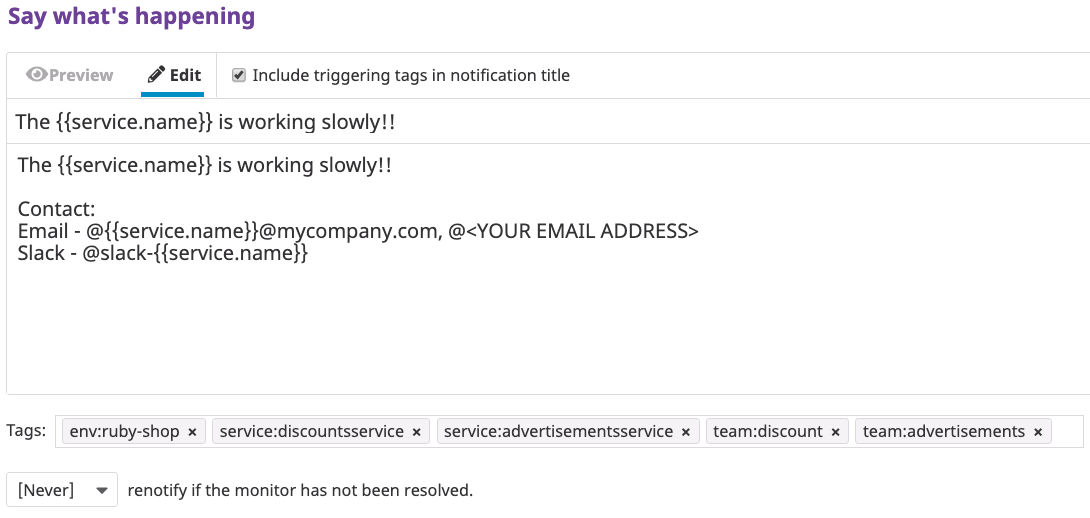
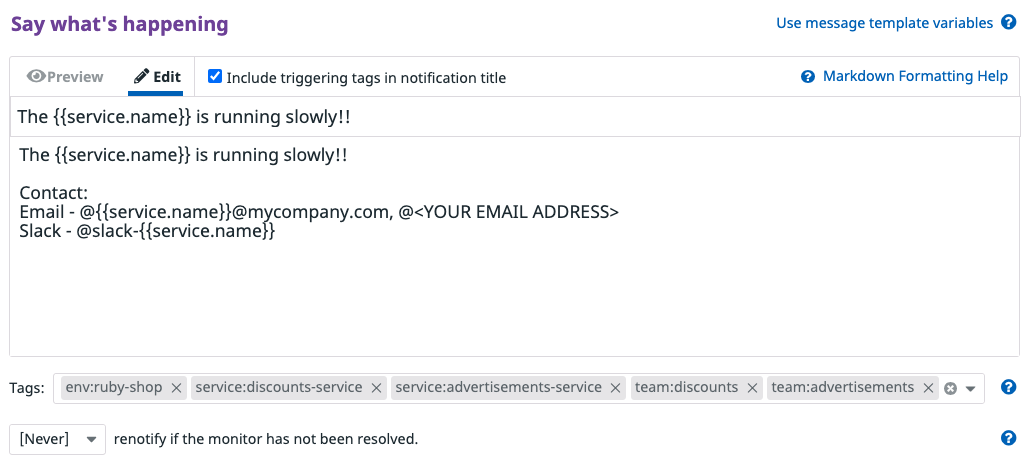
updated steps1-3

diff --git a/taggingv2/apptagging/step3.md b/taggingv2/apptagging/step3.md
@@ -8,30 +8,60 @@ With tags, you can create <a href="https://docs.datadoghq.com/monitors/notificat
 
 4. Expand **Define the metric**. For **Metric**, select  `trace.flask.request.duration`. For **from**, select `env:ruby-shop` to filter by the app environment.
 
-5. Below the metric, select `Multi Alert` from the menu and enter `service` for **(select group)**. <p> You will see that `service` automatically populates the **avg by** (group by) field for the metric. <p>![alert-metric](apptagging/assets/alert-metric.png) 
+5. Below the metric, select `Multi Alert` from the menu and enter `service` for **(select group)**. 
 
-6. Expand **Set the alert condition**. For **Alert Threshold**, enter 5. Leave all other fields as is. <p>![alert-condition](apptagging/assets/alert-condition.png)
+    You will see that `service` automatically populates the **avg by** (group by) field for the metric. 
 
-7. Expand **Say what's happening**. <p> In the **Example Monitor Name...** field, copy and paste `The {{service.name}} is running slowly!!`{{copy}} <p> For **Example Monitor Message...**, copy and paste `The {{service.name}} is running slowly!! Contact: Email - @{{service.name}}@mycompany.com, @<YOUR EMAIL ADDRESS> Slack - @slack-{{service.name}}`{{copy}} <p> At Storedog, the email addresses and slack channels for the advertisements and discounts engineering teams are named for their respective services. If either of the services triggers an alert, `{{service.name}}` will be populated with the appropriate service name. <p> Delete `@<YOUR EMAIL ADDRESS>` and type `@`, then select your name from the list that appears. Do **not** select `Datadog Learning Parent` or `All`. You can also add line breaks so that the message looks similar to that in the image below.<p>For **Tags**, enter `env:ruby-shop`, `service:discounts-service`, `service:advertisements-service`, `team:discount`, `team:advertisements`{{copy}} <p>![alert-message](apptagging/assets/alert-message4.png)
+    ![alert-metric](apptagging/assets/alert-metric.png) 
 
-8. Expand **Notify your team**. The field is already populated with the `@` selections in **Say what's happening**. <p>![alert-notifications](apptagging/assets/alert-notifications.png) <p> Before you save the monitor, let's see an example alert.
+6. Expand **Set the alert condition**. For **Alert Threshold**, enter 5. Leave all other fields as is. 
+
+    ![alert-condition](apptagging/assets/alert-condition.png)
+
+7. Expand **Say what's happening**.
+
+    In the **Example Monitor Name** field, enter `The {{service.name}} is running slowly!!`{{copy}}.
+    
+    In **Example Monitor Message**, enter `The {{service.name}} is running slowly!! Contact: Email - @{{service.name}}@mycompany.com, @<YOUR EMAIL ADDRESS> Slack - @slack-{{service.name}}`{{copy}} 
+    
+    Assume at Storedog, the email addresses and slack channels for the advertisements and discounts engineering teams are named for their respective services. If either of the services triggers an alert, `{{service.name}}` will be populated with the appropriate service name. 
+    
+    Delete `@<YOUR EMAIL ADDRESS>` in the message and type `@`, then select your name from the list that appears. Do **not** select `Datadog Learning Parent` or `All`. You can also add line breaks so that the message looks similar to that in the image below.
+    
+    For **Tags**, enter `env:ruby-shop`{{copy}}, `service:discounts-service`{{copy}}, `service:advertisements-service`{{copy}}, `team:discounts`{{copy}}, `team:advertisements`{{copy}}. 
+
+    NOTE - Make sure include the hyphen in `discounts-service` and `advertisements-service`.
+    
+    ![alert-message](apptagging/assets/alert-message3.png)
+
+8. Expand **Notify your team**. The field is already populated with the `@` selections in **Say what's happening**. 
+
+    ![alert-notifications](apptagging/assets/alert-notifications.png) 
+    
+    Before you save the monitor, let's see an example alert.
 
 9. In the bottom right, click **Test Notifications**. 
 
-10. In the pop-up window that appears, select the **Alert** tile and click **Run Test**. <p> A message appears in the window: `Test notifications sent with group service:<service name>`. <p>![alert-tested](apptagging/assets/alert-tested.png)
+10. In the pop-up window that appears, select the **Alert** tile and click **Run Test**. 
+
+    A message appears in the window: `Test notifications sent with group $service:<service name>`. 
+    
+    ![alert-tested](apptagging/assets/alert-tested2.png)
 
 11. Check your email at the address included in **Notify your team**. You should see an email with the subject `[Monitor Alert] Triggered: [TEST] The <service name> is running slowly!`.
 
-12. Open the email to view its details. You will see that the `{{service.name}}` has been replaced with the actual service name throughout the email. <p>![alert-testemail](apptagging/assets/alert-testemail2.png)
+12. Open the email to view its details. You will see that the `{{service.name}}` has been replaced with the actual service name throughout the email. 
+
+    ![alert-testemail](apptagging/assets/alert-testemail3.png)
 
 13. In Datadog, close the test notifcation window and click **Save** to save the monitor. 
 
 14. Select **Manage Monitors** above the monitor to navigate to the monitors list.
 
-15. To the left of the monitors list, expand the different filter facets. <p> You will see that **Service**, **Tag**, **Env**, and **Team** have optons related to the tags you assigned to the monitor.
+15. On the left of the Monitors list, expand the different Facets. Notice that **Service**, **Tag**, **Env**, and **Team** have optons related to the tags you assigned to the monitor.
 
 14. Navigate to <a href="https://app.datadoghq.com/apm/services" target="_datadog">**APM** > **Services**</a>. Select **discounts-service**.
 
-15. Above the graphs, you will see a banner **1 Monitor ##**. Click the banner to view the list of monitors associated with and suggested for the service.
+15. Above the graphs, you will see a **Monitor** banner. Click the banner to view the list of monitors associated with and suggested for the service. Notice that the monitor you created is listed.
 
 Because of the tags you assigned to the monitor in step 7, the monitor is linked to the respective services in the APM page.

diff --git a/taggingv2/apptagging/step2.md b/taggingv2/apptagging/step2.md
@@ -2,32 +2,46 @@ Based on how the tags have been assigned, you can search the data using the tags
 
 Let's explore the data for the Storedog app.
 
-1. In a new window/tab, log in to the Datadog account/organization that was created for you by learn.datadoghq.com. <p> To open the correct Datadog organization, you can click **Login Now** in the “Congrats” email you received after you joined the account/organization.
+1. In a new browser window/tab, log in to the <a href="https://app.datadoghq.com/account/login" target="_datadog">Datadog account/organization</a> that was created for you by learn.datadoghq.com.
 
-2. If you have previously used the **Log Explorer** in the Datadog organization you are working in, you can move on to the next step. <p>If you are working in a new Datadog organization, you have to first enable Log Management before you can continue. <p> Navigate to <a href="https://app.datadoghq.com/logs" target="_datadog">**Logs**</a>. Click **Get Started**, then click **Start Trial** in the pop-up window. Select **Container**, then select the **docker** tile. Scroll to the bottom and click **Explore your Logs**.
+2. If you have previously used **Logs** in the Datadog organization you are working in, you can move on to the next step. 
 
-2. Navigate to <a href="https://app.datadoghq.com/apm/traces" target="_datadog">**APM** > **Traces**</a> in Datadog to view the list of traces that are coming in. <p> If you are working in a new Datadog organization, the link will be redirected to the **APM** > **Introduction** page. You may need to wait about two minutes as Datadog's Autodiscovery feature picks up the traces that are coming in. In the main menu, when the option appears, click the **APM > Traces** to see the list of traces.
+    If you are working in a new Datadog organization, you have to first enable **Logs** before you can continue. Navigate to <a href="https://app.datadoghq.com/logs" target="_datadog">**Logs**</a>. Click **Get Started**, then click **Get Started** again. You should now be able to see the Log List.
 
-3. In the search field above the list of traces, enter `Env:ruby-shop` if it is not listed to make sure that you are only viewing traces for the Storedog app.
+3. Navigate to <a href="https://app.datadoghq.com/apm/traces" target="_datadog">**APM** > **Traces**</a> in Datadog to view the list of traces that are coming in. 
+    
+    If you are working in a new Datadog organization, the link will be redirected to the **APM** > **Introduction** page. You may need to wait about two minutes as Datadog's Autodiscovery feature recognizes that trace data is coming in. In the main menu, when the option appears, click the **APM > Traces** to see the list of traces.
 
-4. If you see no traces are listed, wait until you see traces listed. You can also refresh the page. 
+3. In the search field above the list of traces, enter the following. 
 
-5. In the search field, enter `service:advertisements-service` to list the traces for the advertisements service only.
+    `env:ruby-shop`{{copy}} to make sure that you are only viewing traces for the Storedog app.
 
-7. Click any trace in the list to view its details. 
+    `service:advertisements-service`{{copy}} to list traces for the advertisements service only.
 
-8. Below the trace flame graph, click the **Logs (#)** tab to view the list of logs associated with this trace. 
+    `resource_name:"GET /ads"`{{copy}} to list traces for this advertisements resource only.
 
-9. Click any of the logs. A new tab will open for the **Log Explorer** and the details for the log you clicked. <p>Notice the tag selected in the search field above the lists of logs is the `trace_id` for the specific trace. The `trace_id` tag is assigned by Datadog. To learn more, view the <a href="https://docs.datadoghq.com/logs/processing/#trace-id-attribute" target="_blank">Log Management Processing</a> documentation. 
+    Note: You can also select these Facets from the list on the left. When you select the facet, you will see the tag appear in the search field.
 
-10. Clear the search field in the Log Explorer. All the logs will appear in the list.
+5. Click any trace in the list to view its details. 
 
-11. In the Log Explorer search field, add `env:ruby-shop` and `service:discount-service`.
+6. Below the Flame Graph, click through the **Infrastructure**, **Metrics**, and **Processes** tabs to see the metric data that is correlated to the trace data using the tags `env`, `service`, `version`, `host`, etc.
+
+6. Below the Flame Graph, click the **Logs (#)** tab to view the list of logs associated with this trace. 
+
+    Notice the tag selected in the search field above the list of logs is the `trace_id` for the specific trace. You can configure log collection to include `trace_id` injection by Datadog.  To learn more, view the <a href="https://docs.datadoghq.com/tracing/connect_logs_and_traces/" target="_blank">Connect Logs and Traces</a> documentation. 
+
+7. Click any of the logs. A new tab will open in **Logs** for the details for the log you clicked. 
+
+    Notice the tag selected in the search field above the Logs List is the `trace_id` for the specific trace. 
+
+10. Close the log details and clear the search field in Logs. All the logs will appear in the list.
+
+11. In the Logs search field, enter `env:ruby-shop`{{copy}} and `service:discount-service`{{copy}}.
 
 12. Click any log in the list to view its details.
 
 13. Near the top of the log details, click **Service** and then select **Go to APM Service Page**. The service page associated with the trace log will open in a new tab.
 
-With deliberate tagging, you can easily search your data and can smoothly navigate between different pages in Datadog.
+As you saw, assigned tags like `env`, `host`, and `service` allow you to quickly search your data and smoothly navigate between related metric, trace, and log data in Datadog.
 
 Let's now create a targeted alert for the advertisements and discounts services.

diff --git a/taggingv2/apptagging/step1.md b/taggingv2/apptagging/step1.md
@@ -4,12 +4,32 @@ Once the app is instrumented, you will see the following message in the terminal
 
 While you wait for the environment to be prepared, you can explore the assigned tags for the application.
 
-1. Click `docker-compose-files/docker-compose-fixed-instrumented.yml`{{open}} to view the file in the editor on the right. <p>The docker-compose.yml instruments the Datadog agent and app build for monitoring with Datadog.
+1. Click `docker-compose-fixed.yml`{{open}} to view the file in the editor on the right. 
 
-2. Scroll through the file to view the configurations and tag assignments. <p>**Line 12** assigns the `env:` tag to the application. By assigning this tag, all data coming in from the Storedog application is labeled as belonging to the same environment. (To learn more, view the <a href="https://docs.datadoghq.com/agent/docker/?tab=standard#environment-variables" target="_blank">Docker Agent Setup</a> documentation.) <p> **Lines 11, 40, 61, and 81** assign `team:` tags to the data from the discount service, frontend service, and advertisements services. (To learn more, view the <a href="https://docs.datadoghq.com/tagging/assigning_tags/?tab=agentv6v7#environment-variables" target="_blank">Assigning Tags</a> documentation.) <p> **Lines 20, 39, 60, 80, and 89** assign labels as tags to the logs for the datadog agent, discount service, frontend service, advertisements services, and postgres, respectively. (To learn more, view the <a href="https://docs.datadoghq.com/agent/docker/log/?tab=dockercompose#activate-log-integrations" target="_blank">Docker Log Collection</a> documentation.)<p>**Lines 27 and 68** assign the `service:` tag to the discount and advertisements services, respectively. (To learn more, view the <a href="https://docs.datadoghq.com/tracing/setup/python/#environment-variable" target="_blank">Tracing Python Applications</a> documentation.)
+    The docker-compose.yml instruments the Datadog agent and application for monitoring with Datadog.
 
-3. Click `store-frontend-instrumented-fixed/store-frontend/config/initializers/datadog.rb `{{open}} to view the file that instruments rails for tracing ruby applications. <p>The `service` tags for the `store-frontend`, `store-frontend-cache`, and `store-frontend-sqlite` are assigned here. (To learn more, view the <a href="https://docs.datadoghq.com/tracing/setup/ruby/#rails" target="_blank">Tracing Ruby Applications</a> documentation.)
+    All <a href="https://docs.datadoghq.com/agent/docker/?tab=standard" target="_datadog">configuration in a Docker environment</a> is done through environment variables, volumes, and Docker labels.
 
-3. After you see the "environment is prepared" message in the terminal, click the **storedog** tab on the right to view the Storedog app. <p> As you can see, the app includes a home page, product pages, advertisements, discounts, and a cart.
+    Because the application is run in a Docker (containerized) environment, the Datadog Agent runs in a container alongside the application containers: `agent`. 
+     
+    Each application service runs in its own Docker container: `discounts`, `frontend`, `advertisements`, and `db`.
 
-<p>Now that the app is ready, let's start exploring the data coming into Datadog.
+2. Scroll through the file to view the configurations and tag assignments. 
+
+    **Line 12** assigns the `env` tag to the application. By assigning this tag, all data coming in from the Storedog application is labeled as belonging to the same environment. (To learn more, view the <a href="https://docs.datadoghq.com/agent/docker/?tab=standard#environment-variables" target="_blank">Docker Agent Setup</a> documentation.) 
+    
+    **Lines 11, 46, 75, and 101** assign `team` tags to the data from the discount service, frontend service, and advertisements services. (To learn more, view the <a href="https://docs.datadoghq.com/tagging/assigning_tags/?tab=agentv6v7#environment-variables" target="_blank">Assigning Tags</a> documentation.) 
+    
+    **Lines 20, 42, 71, 97, and 109** assign labels as tags to the logs for the datadog agent, discount service, frontend service, advertisements services, and postgres, respectively. (To learn more, view the <a href="https://docs.datadoghq.com/agent/docker/log/?tab=dockercompose#activate-log-integrations" target="_blank">Docker Log Collection</a> documentation.)
+    
+    **Lines 27-29, 43-45, 52-54, 72-74, 82-84, and 97-99** assigns the `env`, `service`, and `version` tags to the services for <a href="https://docs.datadoghq.com/getting_started/tagging/unified_service_tagging?tab=docker" target="_blank">unified service tagging</a>. Unified service tagging ties together Datadog telemetry using these three reserved tags.
+
+3. Click `store-frontend-instrumented-fixed/store-frontend/config/initializers/datadog.rb `{{open}} to view the file that instruments rails for tracing ruby applications. 
+
+    The `service` tags for the `store-frontend`, `store-frontend-cache`, and `store-frontend-sqlite` are assigned here. (To learn more, view the <a href="https://docs.datadoghq.com/tracing/setup/ruby/#rails" target="_blank">Tracing Ruby Applications</a> documentation.)
+
+3. After you see the "environment is prepared" message in the terminal, click the **storedog** tab on the right to view the Storedog app. 
+
+    As you can see, the app includes a home page, product pages, advertisements, discounts, and a cart.
+
+Now that the app is ready, let's start exploring the application data in Datadog.

diff --git a/taggingv2/apptagging/intro.md b/taggingv2/apptagging/intro.md
@@ -1,4 +1,4 @@
-With the various resources and services that support your applications, it's important to be able to correlate your data across Datadog for faster troubleshooting, targeted alerting, and overall smoother workflows.
+With the various sources and services supporting your applications, it's important to be able to correlate all data for an application across Datadog for smoother monitoring and troubleshooting workflows.
 
 In this activity, you will use tags assigned to a fictional e-commerce app, Storedog, to explore correlated metric, log, and trace data and to a create targeted alert. You will also create synthetics tests to work with tags as a facet for filters. 
 
